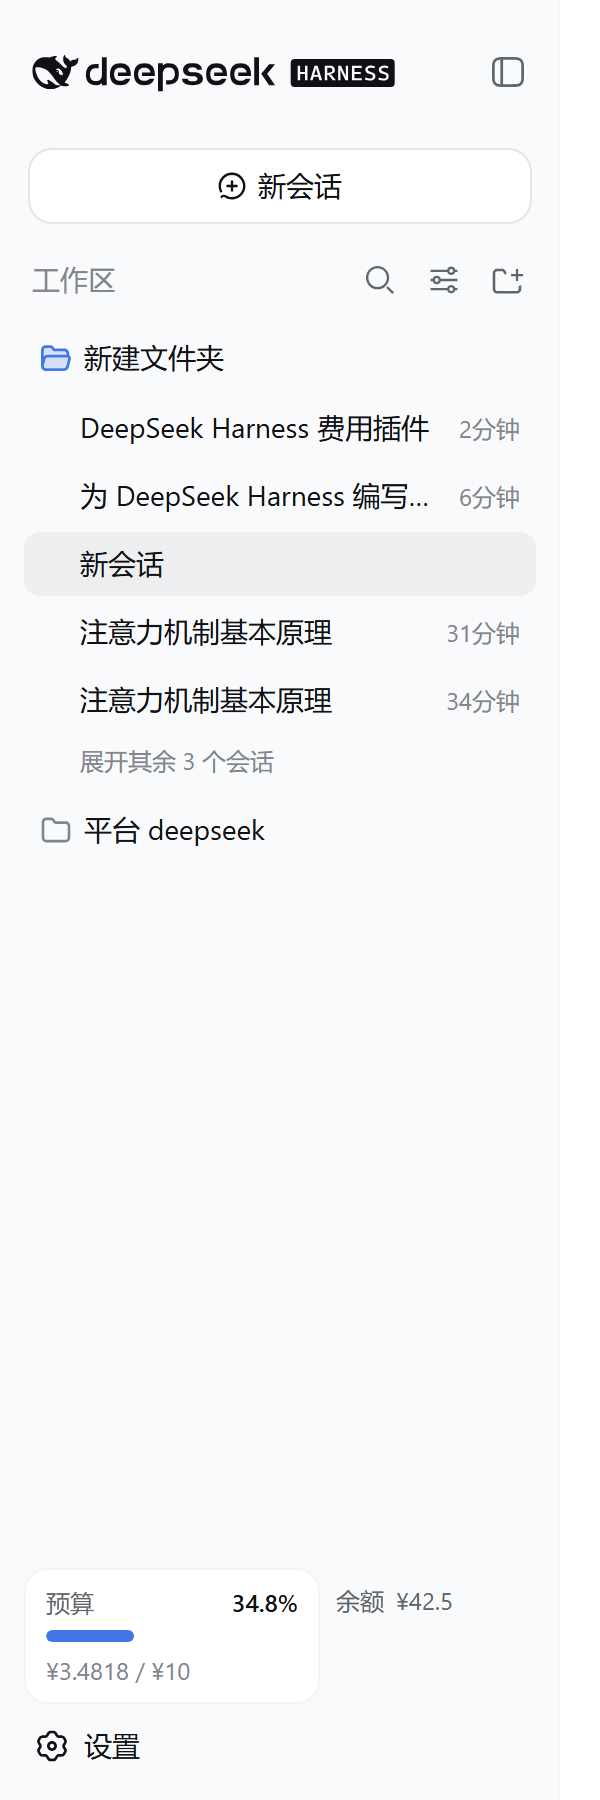
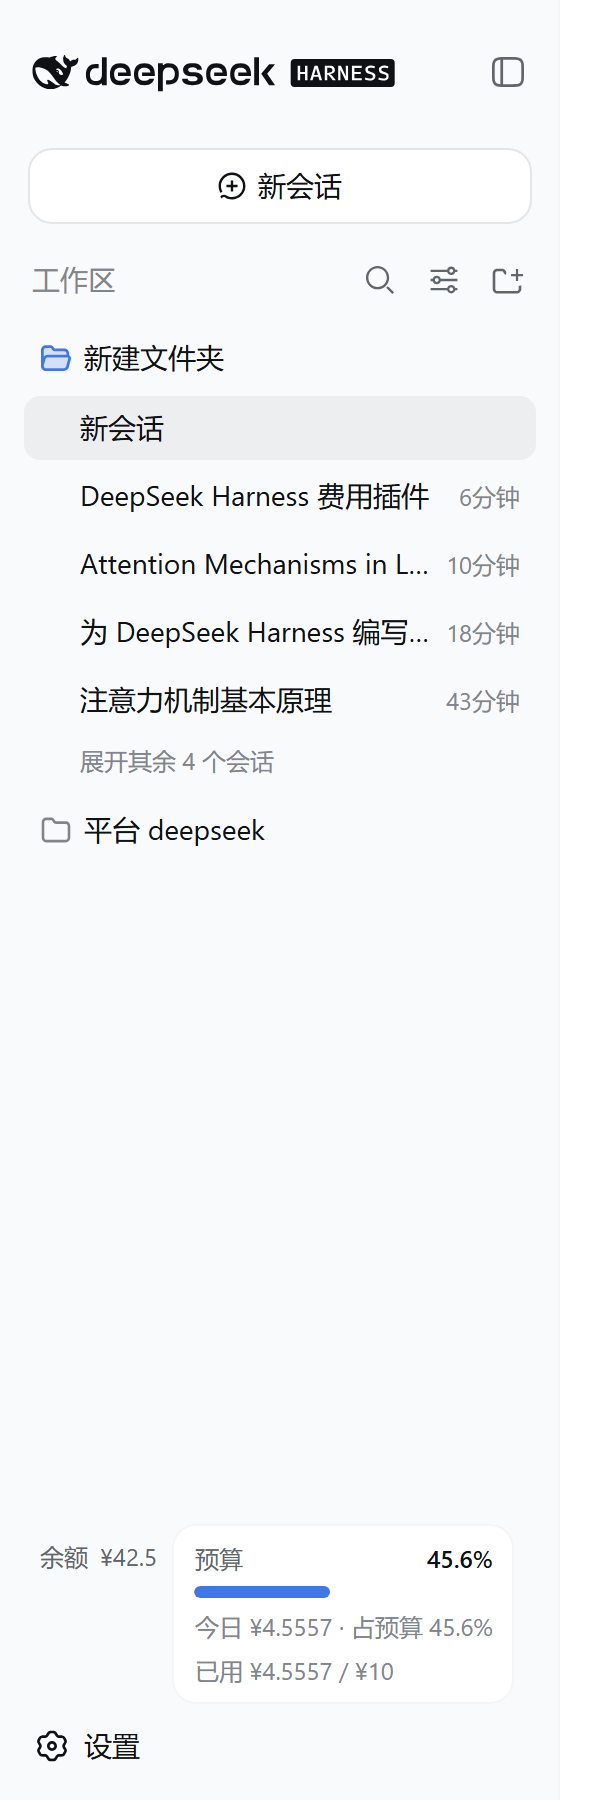
feat: 余额移至预算图框上方、图框加入今日费用与占比,修复峰谷档清零 bug(v1.1.0)
- 侧边栏:余额行 order -10 渲染在预算图框之上;关闭预算时余额仍在设置按钮上方
- 预算图框新增「今日 ¥x · 占预算 y%」行
- 修复 normalizePrice 闭包误读导致 offPeak/peak 被清零的问题,重新同步官方价格
- 文档:本会话费用 dock/header 双位置实拍截图、侧边栏新布局截图

diff --git a/lib/client.js b/lib/client.js
@@ -477,12 +477,15 @@ window.__ModuleLoader__.load({
       const level = pct === null ? 'ok' : pct >= 100 ? 'over' : pct >= 80 ? 'warn' : 'ok'
 
       if (budget.enabled === true) {
-        // 预算圆角方形图框(渲染在设置按钮上方)。
+        // 预算圆角方形图框(渲染在设置按钮上方、余额行下方)。
+        const todayUsed = today.cost * (Number.isFinite(rate) && rate > 0 ? rate : 1)
+        const todayPct = amount > 0 ? Math.min(999, todayUsed / amount * 100) : null
         const detail = [
           '预算(' + (BUDGET_PERIOD_LABEL[budget.period] ?? '本月') + ')',
           '已用 ' + formatMoneyValue(used, config) + ' / ' + formatMoneyValue(amount, config)
             + ' · ' + (pct === null ? '—' : pct.toFixed(1) + '%'),
-          '今日 ' + formatMoneyUsd(today.cost, config) + ' · 本月 ' + formatMoneyUsd(state.month.cost, config) + ' · 累计 ' + formatMoneyUsd(state.total.cost, config),
+          '今日 ' + formatMoneyUsd(today.cost, config) + ' · 占预算 ' + (todayPct === null ? '—' : todayPct.toFixed(1) + '%'),
+          '本月 ' + formatMoneyUsd(state.month.cost, config) + ' · 累计 ' + formatMoneyUsd(state.total.cost, config),
         ].join(';')
         return el(Tooltip, { label: detail, side: 'right', delayMs: 300 },
           el('div', { className: 'cm-bbox' + (level === 'ok' ? '' : ' ' + level) + (props.wide ? '' : ' rail') },
@@ -494,7 +497,9 @@ window.__ModuleLoader__.load({
                 el('div', { className: 'cm-bbox-bar' },
                   el('div', { className: 'cm-bbox-fill', style: { width: (pct === null ? 0 : Math.min(100, pct)) + '%' } })),
                 el('div', { className: 'cm-bbox-line cm-num' },
-                  formatMoneyValue(used, config) + ' / ' + formatMoneyValue(amount, config)))
+                  '今日 ' + formatMoneyUsd(today.cost, config) + ' · 占预算 ' + (todayPct === null ? '—' : todayPct.toFixed(1) + '%')),
+                el('div', { className: 'cm-bbox-line cm-num' },
+                  '已用 ' + formatMoneyValue(used, config) + ' / ' + formatMoneyValue(amount, config)))
               : el('div', { className: 'cm-bbox-rail cm-num' }, pct === null ? '—' : Math.round(pct) + '%')))
       }
 
@@ -1143,7 +1148,7 @@ window.__ModuleLoader__.load({
         if (!enabled) return
         slots.inject('sidebar.footer.action', () => {
           if (sidebarActive.gen !== gen) return
-          const dispose = slots.register({ name: 'sidebar.footer.action', id: 'cost-meter', inject: injected }, SidebarBadge)
+          const dispose = slots.register({ name: 'sidebar.footer.action', id: 'cost-meter', order: 0, inject: injected }, SidebarBadge)
           if (sidebarActive.gen !== gen) { dispose(); return }
           sidebarActive.dispose = dispose
           return () => {
@@ -1160,7 +1165,8 @@ window.__ModuleLoader__.load({
         if (!enabled) return
         slots.inject('sidebar.footer.action', () => {
           if (balanceActive.gen !== gen) return
-          const dispose = slots.register({ name: 'sidebar.footer.action', id: 'cost-meter-balance', inject: injected }, SidebarBalanceRow)
+          // 负 order:余额行渲染在预算图框/今日徽章之上(两者都在设置按钮上方)。
+          const dispose = slots.register({ name: 'sidebar.footer.action', id: 'cost-meter-balance', order: -10, inject: injected }, SidebarBalanceRow)
           if (balanceActive.gen !== gen) { dispose(); return }
           balanceActive.dispose = dispose
           return () => {

diff --git a/lib/pricing.js b/lib/pricing.js
@@ -57,20 +57,21 @@ export const DEFAULT_PRICE_TABLE = {
  */
 export function normalizePrice(value) {
   if (value === null || typeof value !== 'object' || Array.isArray(value)) return null
-  const num = key => {
-    const v = value[key]
+  const numOf = (obj, key) => {
+    const v = obj[key]
     return typeof v === 'number' && Number.isFinite(v) && v >= 0 ? v : 0
   }
   if (!('cacheHit' in value) && !('cacheMiss' in value) && !('output' in value)) return null
   const entry = {
-    cacheHit: num('cacheHit'),
-    cacheMiss: num('cacheMiss'),
-    output: num('output'),
+    cacheHit: numOf(value, 'cacheHit'),
+    cacheMiss: numOf(value, 'cacheMiss'),
+    output: numOf(value, 'output'),
   }
   if (value.legacy === true) entry.legacy = true
   const tier = raw => {
     if (raw === null || typeof raw !== 'object') return undefined
-    return { cacheHit: num(raw.cacheHit), cacheMiss: num(raw.cacheMiss), output: num(raw.output) }
+    // 注意:必须从 raw 自身读数,不能复用外层 value 的闭包。
+    return { cacheHit: numOf(raw, 'cacheHit'), cacheMiss: numOf(raw, 'cacheMiss'), output: numOf(raw, 'output') }
   }
   const offPeak = tier(value.offPeak)
   const peak = tier(value.peak)

diff --git a/README.md b/README.md
@@ -6,7 +6,7 @@
 
 本会话费用 · 当日费用 · 预算与已用百分比 · 官方账户余额 · 历史记录 · 峰谷计价 · 官方价格一键同步
 
-[![version](https://img.shields.io/badge/version-1.0.0-4176E6)](https://github.com/Han-1413141/dsh-cost-meter)
+[![version](https://img.shields.io/badge/version-1.1.0-4176E6)](https://github.com/Han-1413141/dsh-cost-meter)
 [![license](https://img.shields.io/badge/license-MIT-green)](LICENSE)
 [![dsh](https://img.shields.io/badge/DeepSeek%20Harness-dsh--plugin-4176E6)](https://github.com/deepseek-ai/deepseek-harness)
 
@@ -23,9 +23,9 @@
 | 功能 | 位置 | 说明 |
 |---|---|---|
 | 本会话费用 | 输入区下方 / 会话标题栏 | 实时累计费用 + 输入/缓存/输出 token,位置可配 |
+| 官方余额 | 侧边栏顶部 / 设置页(可配) | 总余额 / 赠送 / 充值,自动刷新 + 手动刷新 |
 | 当日费用 | 侧边栏底部(设置按钮上方) | 「今日 ¥x」,悬停见调用次数与 token 明细 |
-| 预算图框 | 侧边栏底部(设置按钮上方) | 圆角方形图框:预算、已用%、进度条、已用/额度,≥80% 预警、≥100% 超支 |
-| 官方余额 | 侧边栏 / 设置页(可配) | 总余额 / 赠送 / 充值,自动刷新 + 手动刷新 |
+| 预算图框 | 侧边栏底部(余额行与设置按钮之间) | 圆角方形图框:预算、已用%、进度条、今日费用与占预算%、已用/额度,≥80% 预警、≥100% 超支 |
 | 汇总卡片 | 设置页 | 今日 / 本月 / 累计费用与调用次数 |
 | 今日会话明细 | 设置页 | 每个会话的调用次数、输入/缓存/输出 token 与费用 |
 | 历史记录 | 设置页 | 按天汇总,保留天数可配(默认 180 天) |
@@ -39,19 +39,24 @@
 
 ### 主页面
 
-**侧边栏**(预算图框 + 官方余额,位于设置按钮上方):
+**侧边栏**(自上而下:官方余额 → 预算图框 → 设置按钮;关闭预算时余额仍显示在设置按钮上方):
 
 ![侧边栏](docs/screenshot-sidebar.png)
 
-- 启用预算后,圆角方形图框显示「预算 · 已用% · 进度条 · 已用/额度」;窄栏(rail)模式收窄为百分比方块;
 - 余额行显示官方开放平台总余额,悬停可见赠送/充值拆分;
+- 启用预算后,圆角方形图框显示「预算 · 已用% · 进度条 · 今日费用与占预算% · 已用/额度」;窄栏(rail)模式收窄为百分比方块;
+
+![预算图框](docs/screenshot-budget-box.png)
+
 - 未启用预算时,该位置显示「今日 ¥x」徽章。
 
-**会话页**(输入区下方的本会话费用):
+**本会话费用**(两个位置,可在设置中切换):
 
-![会话 dock](docs/screenshot-session-dock.png)
+| 输入区下方 | 会话标题栏 |
+|---|---|
+| ![会话 dock](docs/screenshot-session-dock.png) | ![会话标题栏](docs/screenshot-session-header.png) |
 
-> 本会话 ¥5.5939 · 输入 321K · 缓存 119M · 输出 235K(真实会话截图)
+> 上图:本会话 ¥5.5939 · 输入 321K · 缓存 119M · 输出 235K;右图:标题栏徽章「费用 ¥6.1606」(真实会话截图)
 
 ![会话页](docs/screenshot-session.png)
 

diff --git a/CHANGELOG.md b/CHANGELOG.md
@@ -2,6 +2,18 @@
 
 本文件按 [Keep a Changelog](https://keepachangelog.com/zh-CN/1.1.0/) 格式维护。
 
+## [1.1.0] - 2026-08-14
+
+### 变更
+
+- 侧边栏布局:余额行移到预算圆角图框**上方**(关闭预算时余额仍显示在设置按钮上方);
+- 预算图框新增**今日费用与占预算百分比**(「今日 ¥x · 占预算 y%」行);
+- 文档:补充本会话费用两种位置(输入区下方 / 会话标题栏)的实拍截图。
+
+### 修复
+
+- `normalizePrice` 读取谷时/峰时档时误用外层闭包,导致任何配置保存都会把 offPeak/peak 清零;已修复并重新同步官方价格。
+
 ## [1.0.0] - 2026-08-14
 
 首个正式版本。功能全览:
